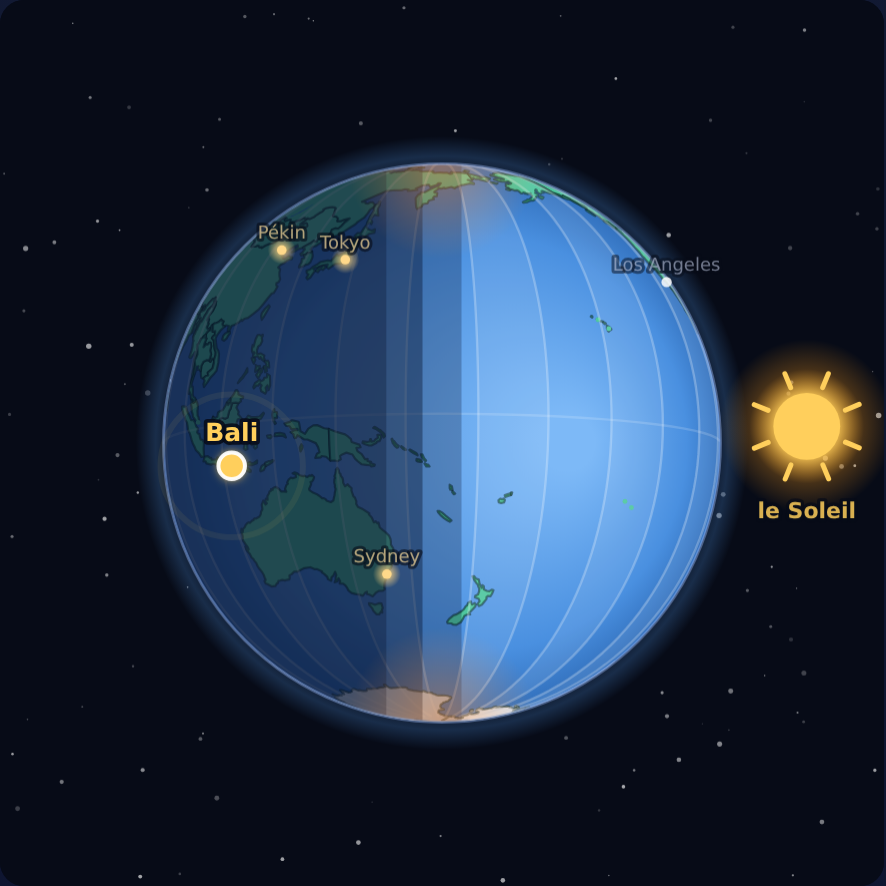
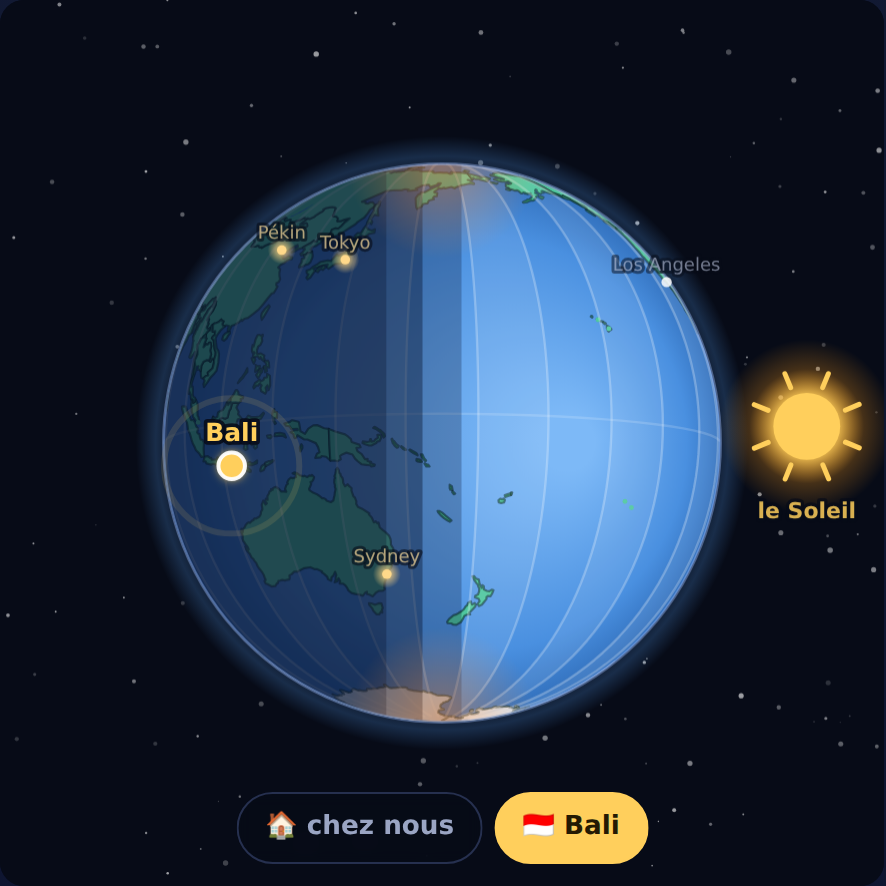
feat: les boutons chez nous / destination reviennent sous la Terre en 3D
Les deux boutons de lieux sont posés dans le ciel étoilé du globe, juste
sous la Terre — la place y est, sur ordinateur comme sur téléphone (le
disque compact laisse une bande de ciel libre en bas). Le bloc .game-side ne
porte plus que le cadre des heures : sous le globe sur ordinateur, entre le
globe et la carte sur mobile. Détail CSS : en position absolue à left:50%,
le shrink-to-fit repliait les boutons sur une demi-largeur (ils
s'empilaient) — width: max-content les garde sur une ligne, avec un
garde-fou ellipsis pour les très longs noms.

Claude-Session: https://claude.ai/code/session_01WKs5M4Gy3Fu1L8CLaX4zJ5

diff --git a/index.html b/index.html
@@ -132,6 +132,12 @@
         <div class="canvas-wrap ratio-square">
           <canvas id="globe3d-view" aria-label="La Terre en trois dimensions, éclairée par le Soleil posé du côté d’où vient la lumière — la limite entre le jour et la nuit reste toujours visible, et côté nuit les villes s’allument. Les vrais continents et pays sont dessinés, la France est surlignée en rose, et les 24 fuseaux horaires apparaissent en tranches. Faites glisser horizontalement pour faire tourner la Terre et changer l’heure, verticalement pour la pencher, et cliquez sur un pays ou une ville pour l’observer."></canvas>
         </div>
+        <div class="view-chips" role="group" aria-label="Aller voir un lieu : le globe pivote jusqu’à lui, l’heure ne change pas">
+          <button id="view-france" class="view-chip" aria-pressed="false"
+            aria-label="Tourner le globe pour voir la France, chez nous — l’heure ne change pas">🏠 chez nous</button>
+          <button id="view-dest" class="view-chip active" aria-pressed="true"
+            aria-label="Tourner le globe pour revoir la Guadeloupe, la destination — l’heure ne change pas"><span id="view-dest-label">🏝 Guadeloupe</span></button>
+        </div>
       </div>
     </div>
 
@@ -169,12 +175,6 @@
           <strong id="frame-sel-time-globe">7 h 00</strong>
         </div>
         <div class="frame-diff" id="frame-diff-globe">5 h de retard sur nous</div>
-      </div>
-      <div class="view-chips" role="group" aria-label="Aller voir un lieu : le globe pivote jusqu’à lui, l’heure ne change pas">
-        <button id="view-france" class="view-chip" aria-pressed="false"
-          aria-label="Tourner le globe pour voir la France, chez nous — l’heure ne change pas">🏠 chez nous</button>
-        <button id="view-dest" class="view-chip active" aria-pressed="true"
-          aria-label="Tourner le globe pour revoir la Guadeloupe, la destination — l’heure ne change pas"><span id="view-dest-label">🏝 Guadeloupe</span></button>
       </div>
     </div>
     </div>

diff --git a/css/style.css b/css/style.css
@@ -93,21 +93,28 @@ main { max-width: 1180px; margin: 0 auto; padding: 0 20px 60px; }
     .game-grid .ratio-map { height: min(36vw, 430px); }
   }
 }
-/* le cadre des heures et les boutons de lieux du jeu vivent dans leur propre
-   bloc (.game-side) : sous le globe sur ordinateur, après la carte sur
-   mobile — jamais incrustés, rien ne mord sur les vues. Sur mobile, la carte
-   à plat suit ainsi le globe 3D immédiatement : les deux tiennent sur un
-   écran, et le titre + la recherche de la carte glissent sous elle. */
+/* les boutons de lieux sont posés sous la Terre, dans le ciel étoilé du
+   globe (la place y est, ordinateur comme téléphone) ; le cadre des heures
+   vit dans son bloc .game-side — sous le globe sur ordinateur, entre le
+   globe et la carte sur mobile. Rien ne mord sur les vues. */
+.game-grid .globe-stage > .view-chips {
+  position: absolute; left: 50%; bottom: 10px;
+  -webkit-transform: translateX(-50%); transform: translateX(-50%);
+  margin: 0; flex-wrap: nowrap;
+  /* en absolu, left:50% ne laisse qu'une moitié de largeur au shrink-to-fit :
+     max-content garde les deux boutons sur une seule ligne, bien centrés */
+  width: -webkit-max-content; width: max-content;
+  max-width: calc(100% - 12px);
+}
+.game-grid .globe-stage > .view-chips .view-chip {
+  /* garde-fou pour les très longs noms (« Papouasie… ») : on coupe avec … */
+  max-width: 11em; overflow: hidden; text-overflow: ellipsis;
+}
 .game-side { display: flex; flex-direction: column; gap: 10px; min-width: 0; }
 .game-side .globe-frame {
   position: static; z-index: auto; margin: 0; pointer-events: auto;
   background: #0d1531;
   -webkit-backdrop-filter: none; backdrop-filter: none;
-}
-.game-side .view-chips {
-  position: static; left: auto; bottom: auto;
-  -webkit-transform: none; transform: none;
-  display: flex; gap: 6px; max-width: 100%; flex-wrap: wrap; justify-content: center;
 }
 @media (max-width: 960px) {
   /* sur téléphone, le cadre des heures et les boutons s'intercalent entre le

diff --git a/CLAUDE.md b/CLAUDE.md
@@ -55,11 +55,13 @@ niveau d'exigence : <https://github.com/davidb-prog/eclipse-explorer>. L'épisod
   heures) ; frise du temps pleine largeur (`time-panel`, curseur 0–24 h) ; scénarios +
   histoire (bouton 🔇/🔊 `btn-scn-voice` de version sonore) ; boîte « Pourquoi les fuseaux
   horaires ? » à écouter (menu de voix) ; **jeu** « Amuse-toi à trouver l'heure… »
-  (`.game-head` puis `.game-grid` : globe 3D, carte à plat avec sa recherche jumelle, et le
-  bloc `.game-side` — cadre jumeau `-globe` + 2 boutons de lieux 🏠 chez nous / destination.
-  Côte à côte dès 961 px avec `.game-side` sous le globe ; sur mobile l'ordre (par `order`
-  CSS) est globe → `.game-side` → carte, les deux vues tiennent sur un écran, et titre +
-  recherche de la carte passent sous elle. Pas de plein écran) ; note aux parents
+  (`.game-head` puis `.game-grid` : globe 3D avec les 2 boutons de lieux 🏠 chez nous /
+  destination **incrustés dans son ciel, sous la Terre** (toutes tailles ; `width:
+  max-content` sinon l'absolu `left:50%` replie les boutons), carte à plat avec sa recherche
+  jumelle et les 9 idées répliquées (masquées sur mobile), et le bloc `.game-side` — le cadre
+  jumeau `-globe` seul. Côte à côte dès 961 px avec `.game-side` sous le globe ; sur mobile
+  l'ordre (par `order` CSS) est globe → cadre → carte, les deux vues tiennent sur un écran,
+  et titre + recherche de la carte passent sous elle. Pas de plein écran) ; note aux parents
 - `css/style.css` — thème sombre de la série ; sur la vue du pôle, le cadre des heures est
   incrusté (il se range dessous en **mobile ≤ 640 px**) ; dans le jeu (`.game-grid`), le cadre
   et les boutons de lieux sont **toujours** rangés sous le globe, à toutes les tailles — rien

diff --git a/README.md b/README.md
@@ -71,11 +71,12 @@ fuseaux horaires à une enfant de 5 ans, guidée par un parent qui lit à voix h
   continents et les frontières des ~180 pays (Natural Earth, embarqué dans `js/geo.js` —
   aucune tuile, aucune bibliothèque), la France surlignée en rose, la destination en doré, les
   24 fuseaux en tranches. Glisser horizontalement le fait tourner (l'heure change), un clic
-  sur un pays ou une ville-décor l'observe, et son heure s'affiche dans le cadre. Sur
-  ordinateur, le globe et la carte s'affichent **côte à côte, sur un seul écran** ; sur
-  téléphone, l'enchaînement est globe 3D → cadre des heures et boutons de lieux → carte à
-  plat — **les deux vues tiennent ensemble sur l'écran** (titre et recherche de la carte
-  passent dessous), et la Terre occupe davantage le cadre pour rester lisible.
+  sur un pays ou une ville-décor l'observe, et son heure s'affiche dans le cadre. Les deux
+  **boutons de lieux** (🏠 chez nous / la destination) sont posés dans le ciel étoilé, juste
+  sous la Terre. Sur ordinateur, le globe et la carte s'affichent **côte à côte, sur un seul
+  écran** ; sur téléphone, l'enchaînement est globe 3D → cadre des heures → carte à plat —
+  **les deux vues tiennent ensemble sur l'écran** (titre et recherche de la carte passent
+  dessous), et la Terre occupe davantage le cadre pour rester lisible.
 - **Le Soleil du globe reste à sa place, et l'image reste lisible.** Il se pose sur l'axe
   horizontal, du côté d'où vient la lumière — et le cadrage garde **toujours la limite
   jour/nuit à l'écran** : jamais la face éclairée pile en face, jamais le Soleil coincé
